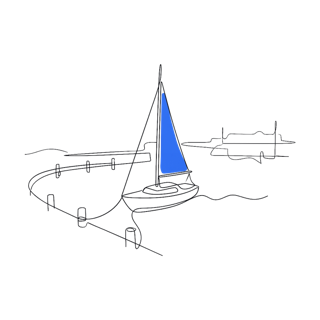
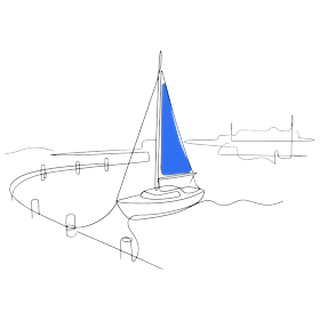
De l'air, un dessin par écran, un seul « ••• »
LES ÉTATS VIDES PERDENT LEUR DESSIN. Ils en portaient un — carnet
quand le questionnaire manquait, port quand c'était le portefeuille.
Depuis que chaque vue s'ouvre sur le sien, cet état arrive juste
dessous : on voyait la balance de l'allocation, puis un carnet, sur
le même écran. Le second ne disait rien que « Une étape manque » ne
dise déjà. C'est aussi le carnet de trop sur le rapport, sur le
profil de risque et sur l'allocation cible.

DE L'AIR ENTRE LES BLOCS. Les cartes se touchaient à seize pixels,
héritées d'une mise en page où l'écran devait tout montrer d'un
coup. Depuis que le contenu paraît au défilement, l'écran n'a plus à
tout tenir : 34 px sur téléphone, 56 px sur écran large entre les
blocs de premier niveau, les grilles desserrent de 16 à 24 et 32, et
les cartes gagnent huit pixels de rembourrage sur écran large. La
règle ne porte que sur les enfants DIRECTS d'une vue — une carte
reste dense à l'intérieur, c'est entre les cartes que l'air manquait.

UN SEUL « ••• » PAR LARGEUR. Celui de la barre basse restait visible
sur téléphone à côté de celui de l'en-tête : la règle qui le masque
était posée AVANT `.tabbar button`, qui pose `display: flex`, et une
media query n'ajoute aucune spécificité. Même piège que
`.filtres .champ` il y a deux jours.

LES QUATRE ACTIONS DE DOSSIER QUITTENT L'EN-TÊTE. Enregistrer,
exporter, importer, nouveau dossier vivent derrière le « ••• », qui
les portait déjà sur téléphone. Les boutons restent dans la page,
[…]

Changed region(s): [[0.0312, 0.1562, 0.9688, 0.8125], [0.1562, 0.625, 0.3438, 0.75], [0.4375, 0.7812, 0.5, 0.8438]]

diff --git a/css/app.css b/css/app.css
@@ -131,7 +131,12 @@ a:hover { text-decoration: underline; }
   font-size: 12px; color: var(--texte-doux);
   padding-left: 4px; border-left: 1px solid var(--ligne); margin-left: 2px;
 }
-.entete .actions-entete { display: flex; gap: 8px; flex-shrink: 0; }
+/* Les quatre actions — enregistrer, exporter, importer, nouveau dossier —
+   ne s'alignent plus dans l'en-tête. Elles vivent derrière le « ••• », qui
+   les portait déjà sur téléphone : les avoir aux deux endroits laissait
+   croire à deux choses différentes. Les boutons restent dans la page, la
+   feuille les relaie par leur identifiant. */
+.entete .actions-entete { display: none; }
 
 /* En colonne à toutes les largeurs. C'était une RANGÉE — la colonne de
    navigation à gauche, le contenu à droite. La colonne ayant disparu, une
@@ -887,7 +892,11 @@ input[type=range] { width: 100%; accent-color: var(--bleu); }
 
 .tabbar { display: none; }
 .sous-nav { display: none; }
-.tabbar-filet, .tabbar-plus { display: none; }
+/* Le « ••• » de la barre basse ne sert que sur écran large : sur téléphone
+   l'en-tête porte déjà le sien, et deux portes identiques à trente
+   centimètres l'une de l'autre ne sont pas deux chemins, c'est une hésitation.
+   La règle vit APRÈS `.tabbar button`, qui pose `display: flex` : posée avant,
+   elle était muette — une media query n'ajoute aucune spécificité. */
 
 @media all {
 
@@ -996,6 +1005,9 @@ input[type=range] { width: 100%; accent-color: var(--bleu); }
     letter-spacing: .1em; font-size: 15px; font-weight: 800; color: var(--texte-doux);
   }
   .tabbar-plus:hover { color: var(--texte); }
+}
+@media (max-width: 820px) {
+  .tabbar-filet, .tabbar-plus { display: none !important; }
   .contenu { padding-bottom: 136px; }
   .pied { padding-bottom: 128px; }
 }
@@ -2171,6 +2183,50 @@ h2 .illustration {
   .ouverture > .illustration { width: 132px !important; height: 132px !important; }
 }
 
+/* ---------- (d bis bis) DE L'AIR ENTRE LES BLOCS ----------
+   Les cartes se touchaient à seize pixels, héritées d'une mise en page où
+   l'écran devait tout montrer d'un coup. Depuis que chaque vue s'ouvre en
+   pleine page et que le contenu paraît au défilement, l'écran n'a plus à
+   tout tenir : il peut respirer, et un bloc qui commence doit se voir
+   commencer.
+
+   La règle porte sur les enfants DIRECTS d'une vue et de son conteneur de
+   contenu — les blocs de premier niveau, pas ce qu'ils contiennent. Une
+   carte reste dense à l'intérieur ; c'est entre les cartes que l'air
+   manque. */
+.vue > .carte, .vue > .grille, .vue > .message, .vue > .verdict,
+.vue > .tableau-defilant, .vue > .etat-vide, .vue > .bandeau-profil,
+.vue > div[id$="-contenu"] > .carte,
+.vue > div[id$="-contenu"] > .grille,
+.vue > div[id$="-contenu"] > .message,
+.vue > div[id$="-contenu"] > .verdict,
+.vue > div[id$="-contenu"] > .tableau-defilant,
+.vue > div[id$="-contenu"] > .etat-vide,
+.vue > div[id$="-contenu"] > .bandeau-profil {
+  margin-bottom: 34px;
+}
+.vue > div[id$="-contenu"] > *:last-child,
+.vue > *:last-child { margin-bottom: 0; }
+
+/* Et les grilles elles-mêmes desserrent. */
+.grille { gap: 24px; }
+
+@media (min-width: 821px) {
+  .vue > .carte, .vue > .grille, .vue > .message, .vue > .verdict,
+  .vue > .tableau-defilant, .vue > .etat-vide, .vue > .bandeau-profil,
+  .vue > div[id$="-contenu"] > .carte,
+  .vue > div[id$="-contenu"] > .grille,
+  .vue > div[id$="-contenu"] > .message,
+  .vue > div[id$="-contenu"] > .verdict,
+  .vue > div[id$="-contenu"] > .tableau-defilant,
+  .vue > div[id$="-contenu"] > .etat-vide,
+  .vue > div[id$="-contenu"] > .bandeau-profil {
+    margin-bottom: 56px;
+  }
+  .grille { gap: 32px; }
+  .carte { padding: 30px 32px; }
+}
+
 /* ---------- (d ter) LES INDICATEURS EN ZIGZAG ----------
    Quatre tuiles en rang serré se lisent comme un tableau de bord
    d'avion : on les balaie sans en retenir une. Une par ligne,
@@ -2207,7 +2263,7 @@ h2 .illustration {
   padding: 24px 0 calc(var(--marge-barre) + 52px);
   position: relative;
 }
-.entree-ouverture > .illustration { width: 168px !important; height: 168px !important; }
+.entree-ouverture > .illustration { width: 160px !important; height: 160px !important; }
 .entree-nom {
   font-family: var(--police);
   font-size: 46px; font-weight: 800; letter-spacing: -.035em; line-height: 1;
@@ -2243,7 +2299,7 @@ h2 .illustration {
 .entree-choisir > div:first-child { display: contents; }
 
 @media (min-width: 821px) {
-  .entree-ouverture > .illustration { width: 208px !important; height: 208px !important; }
+  .entree-ouverture > .illustration { width: 210px !important; height: 210px !important; }
   .entree-nom { font-size: 64px; letter-spacing: -.04em; }
   .entree-propos { max-width: 900px; }
   .entree-propos .accroche p { font-size: 24px; }
@@ -2296,7 +2352,7 @@ h2 .illustration {
 .ouverture-vue .intro { max-width: 46ch; margin: 0; }
 /* La taille vient de la feuille et non de `illustration()`, qui la pose
    en style d'attribut : sans `!important` le style en ligne l'emporte. */
-.ouverture-vue > .illustration { width: 168px !important; height: 168px !important; }
+.ouverture-vue > .illustration { width: 210px !important; height: 210px !important; }
 
 /* L'invitation à descendre, en pied d'écran. */
 .ouverture-suite {
@@ -2314,7 +2370,7 @@ h2 .illustration {
 
 @media (max-width: 820px) {
   .ouverture-vue { gap: 20px; padding-bottom: 84px; }
-  .ouverture-vue > .illustration { width: 132px !important; height: 132px !important; }
+  .ouverture-vue > .illustration { width: 160px !important; height: 160px !important; }
 }
 
 /* ---------- (f) LE CONTENU PARAÎT AU DÉFILEMENT ----------

diff --git a/index.html b/index.html
@@ -15,8 +15,8 @@
 <link rel="icon" type="image/png" sizes="192x192" href="icone-192.png">
 <link rel="manifest" href="manifest.webmanifest">
 <title>Allocation ETF — Profilage, allocation et arbitrages</title>
-<link rel="stylesheet" href="css/tokens.css?v=202608193040">
-<link rel="stylesheet" href="css/app.css?v=202608193040">
+<link rel="stylesheet" href="css/tokens.css?v=202608193060">
+<link rel="stylesheet" href="css/app.css?v=202608193060">
 </head>
 <body>
 
@@ -36,7 +36,7 @@
   <div class="marque">
     <!-- Le nom est porté par le lettrage ; le signe est décoratif ici,
          il n'a donc pas à être annoncé une seconde fois. -->
-    <img class="logo" src="img/logo.png?v=202608193040" alt="" aria-hidden="true" width="28" height="28">
+    <img class="logo" src="img/logo.png?v=202608193060" alt="" aria-hidden="true" width="28" height="28">
     <strong>myetf</strong>
     <span>Profilage investisseur · Allocation d'actifs · Arbitrages tactiques</span>
   </div>
@@ -483,34 +483,34 @@
   en investissement.</span>
 </footer>
 
-<script src="js/data/libelles.js?v=202608193040"></script>
-<script src="js/data/questionnaire.js?v=202608193040"></script>
-<script src="js/data/allocations.js?v=202608193040"></script>
-<script src="js/data/macro.js?v=202608193040"></script>
-<script src="js/data/etf-univers.js?v=202608193040"></script>
-<script src="js/data/fiscalite.js?v=202608193040"></script>
-<script src="js/data/historique.js?v=202608193040"></script>
-<script src="js/data/note-marche.js?v=202608193040"></script>
-<script src="js/data/cours-historique.js?v=202608193040"></script>
-<script src="js/data/cours-marche.js?v=202608193040"></script>
-<script src="js/engine/profil.js?v=202608193040"></script>
-<script src="js/engine/allocation.js?v=202608193040"></script>
-<script src="js/engine/selection.js?v=202608193040"></script>
-<script src="js/engine/arbitrage.js?v=202608193040"></script>
-<script src="js/engine/revenus.js?v=202608193040"></script>
-<script src="js/engine/situation.js?v=202608193040"></script>
-<script src="js/engine/contrat.js?v=202608193040"></script>
-<script src="js/engine/univers.js?v=202608193040"></script>
-<script src="js/engine/backtest.js?v=202608193040"></script>
-<script src="js/ui/socle.js?v=202608193040"></script>
-<script src="js/ui/dossier.js?v=202608193040"></script>
-<script src="js/ui/navigation.js?v=202608193040"></script>
-<script src="js/ui/vues-profil.js?v=202608193040"></script>
-<script src="js/ui/vues-allocation.js?v=202608193040"></script>
-<script src="js/ui/vues-suivi.js?v=202608193040"></script>
-<script src="js/ui/catalogue.js?v=202608193040"></script>
-<script src="js/ui/rapport.js?v=202608193040"></script>
-<script src="js/ui/entrees.js?v=202608193040"></script>
-<script src="js/app.js?v=202608193040"></script>
+<script src="js/data/libelles.js?v=202608193060"></script>
+<script src="js/data/questionnaire.js?v=202608193060"></script>
+<script src="js/data/allocations.js?v=202608193060"></script>
+<script src="js/data/macro.js?v=202608193060"></script>
+<script src="js/data/etf-univers.js?v=202608193060"></script>
+<script src="js/data/fiscalite.js?v=202608193060"></script>
+<script src="js/data/historique.js?v=202608193060"></script>
+<script src="js/data/note-marche.js?v=202608193060"></script>
+<script src="js/data/cours-historique.js?v=202608193060"></script>
+<script src="js/data/cours-marche.js?v=202608193060"></script>
+<script src="js/engine/profil.js?v=202608193060"></script>
+<script src="js/engine/allocation.js?v=202608193060"></script>
+<script src="js/engine/selection.js?v=202608193060"></script>
+<script src="js/engine/arbitrage.js?v=202608193060"></script>
+<script src="js/engine/revenus.js?v=202608193060"></script>
+<script src="js/engine/situation.js?v=202608193060"></script>
+<script src="js/engine/contrat.js?v=202608193060"></script>
+<script src="js/engine/univers.js?v=202608193060"></script>
+<script src="js/engine/backtest.js?v=202608193060"></script>
+<script src="js/ui/socle.js?v=202608193060"></script>
+<script src="js/ui/dossier.js?v=202608193060"></script>
+<script src="js/ui/navigation.js?v=202608193060"></script>
+<script src="js/ui/vues-profil.js?v=202608193060"></script>
+<script src="js/ui/vues-allocation.js?v=202608193060"></script>
+<script src="js/ui/vues-suivi.js?v=202608193060"></script>
+<script src="js/ui/catalogue.js?v=202608193060"></script>
+<script src="js/ui/rapport.js?v=202608193060"></script>
+<script src="js/ui/entrees.js?v=202608193060"></script>
+<script src="js/app.js?v=202608193060"></script>
 </body>
 </html>

diff --git a/js/ui/dossier.js b/js/ui/dossier.js
@@ -335,14 +335,13 @@ function etatVide(vue) {
   const manques = manquePour(vue);
   if (!manques.length) return '';
 
-  /* Le dessin dit ce qui manque avant qu'on ait lu : un carnet quand c'est
-     le questionnaire, un port quand c'est le portefeuille. Le premier
-     manque commande — deux dessins pour deux manques se disputeraient. */
-  const DESSIN_MANQUE = { questionnaire: 'carnet', detention: 'port', macro: 'boussole' };
-  const dessin = DESSIN_MANQUE[manques[0]]
-    ? '<div class="etat-vide-dessin">' + illustration(DESSIN_MANQUE[manques[0]], TAILLE_ILLUSTRATION_BANNIERE) + '</div>' : '';
-
-  return '<div class="etat-vide">' + dessin +
+  /* PAS DE DESSIN ICI. L'état vide en portait un — un carnet quand le
+     questionnaire manquait, un port quand c'était le portefeuille. Depuis
+     que chaque vue s'ouvre sur le sien, cet état arrive juste dessous : on
+     voyait la balance de l'allocation, puis un carnet, sur le même écran.
+     Deux dessins pour une vue, et le second ne disait rien que le titre
+     « Une étape manque » ne dise déjà. */
+  return '<div class="etat-vide">' +
     '<h3>' + (manques.length > 1
       ? 'Deux étapes manquent avant de pouvoir afficher cette section'
       : 'Une étape manque avant de pouvoir afficher cette section') + '</h3>' +

diff --git a/js/ui/socle.js b/js/ui/socle.js
@@ -139,10 +139,15 @@ const TAILLE_ILLUSTRATION_TITRE = 38;
 const TAILLE_ILLUSTRATION_BANNIERE = 180;
 /* En ouverture de vue : plus grand que dans un titre, plus petit qu'une
    bannière d'accueil — c'est le sujet du premier écran, pas sa décoration.
-   Il rapetisse à 132 px sur téléphone, où 168 px mangeraient la moitié de
-   ce qu'on voit en arrivant (feuille de style, pas ici : le style en ligne
-   posé par `illustration()` est surchargé en `!important`). */
-const TAILLE_ILLUSTRATION_OUVERTURE = 168;
+   Il rapetisse à 160 px sur téléphone (feuille de style, pas ici : le style
+   en ligne posé par `illustration()` y est surchargé en `!important`).
+
+   Le port a été recadré au passage : c'est un dessin EN LARGEUR, et centré
+   dans un carré il ne remplissait que 85 % de sa boîte quand la balance ou
+   le journal en occupent 91 %. À taille de boîte égale il paraissait plus
+   petit — ce n'était pas la boîte qu'il fallait changer, c'était le
+   cadrage du fichier. */
+const TAILLE_ILLUSTRATION_OUVERTURE = 210;
 
 function illustration(nom, taille) {
   return '<img class="illustration" src="img/' + nom + '.png" alt="" aria-hidden="true" ' +

diff --git a/CLAUDE.md b/CLAUDE.md
@@ -293,6 +293,33 @@ la colonne les portait. La colonne partie, un « ••• » est ajouté à la 
 basse — masqué sur téléphone, où l'en-tête fait déjà le travail. Il ouvre la
 même feuille : une seule feuille, deux portes, jamais deux contenus à tenir.
 
+## Un seul dessin par écran, et un seul « ••• » par largeur
+
+**Les états vides n'ont plus de dessin.** Ils en portaient un — un carnet
+quand le questionnaire manquait, un port quand c'était le portefeuille.
+Depuis que chaque vue s'ouvre sur le sien, cet état arrive juste dessous : on
+voyait la balance de l'allocation, puis un carnet, sur le même écran. Le
+second ne disait rien que le titre « Une étape manque » ne dise déjà.
+
+**Le « ••• » ne paraît qu'une fois.** Sur téléphone c'est celui de l'en-tête,
+sur écran large celui de la barre basse. La règle qui masque celui de la barre
+vit APRÈS `.tabbar button`, qui pose `display: flex` : placée avant, elle était
+muette — une media query n'ajoute aucune spécificité, c'est l'ordre du fichier
+qui tranche. Le piège s'est déjà refermé une fois, sur `.filtres .champ`.
+
+**Les quatre actions de dossier ont quitté l'en-tête.** Enregistrer, exporter,
+importer, nouveau dossier vivent derrière le « ••• », qui les portait déjà sur
+téléphone. Les avoir aux deux endroits laissait croire à deux choses
+différentes. Les boutons restent dans la page, masqués : la feuille les relaie
+par leur identifiant, et les retirer casserait ce relais.
+
+**Un dessin en largeur pèse moins qu'un dessin carré.** Le port occupait 85 %
+de sa boîte quand la balance ou le journal en occupent 91 % : à taille égale il
+paraissait plus petit. Ce n'était pas la boîte qu'il fallait changer, c'était
+le cadrage du fichier — recadré au plus près, il en occupe 98 %. Le réflexe
+d'ajouter une taille par vue aurait rendu la règle « une seule taille » fausse
+pour toujours.
+
 ## L'écran d'ouverture — trois secondes
 
 Le signe seul sur le fond de page, puis il s'efface en fondu. **Trois
@@ -323,16 +350,16 @@ conseil » est **encadré de noir et plus gros que les mentions** (13,5 px contr
 
 ## L'empreinte de référence
 
-**`54fbfd24` · 1 321 221 octets · 68 empreintes**, relevée après le chantier
-des ouvertures. Les +17 392 octets sur l'empreinte précédente (`8826d079`,
-1 303 829) sont le balisage des seize ouvertures de vue — dessin, titre,
-sous-titre, invitation à descendre — et le « ••• » de la barre basse.
+**`fe9a6d86` · 1 318 021 octets · 68 empreintes**, relevée après le passage
+d'aération. Les −3 200 octets sur `54fbfd24` sont les dessins retirés des
+états vides.
 
 Repère utile comme étalon : `3491397b`, **1 303 613 octets**. L'agrandissement
 des dessins avait alors changé l'empreinte **sans changer d'un octet** le
 total, puisqu'il ne substituait que des chiffres. Un total inchangé et une
 empreinte différente : la signature d'une substitution pure. Un total qui bouge
-veut dire que du balisage est apparu, et il faut alors savoir lequel.
+veut dire que du balisage est apparu ou a disparu, et il faut alors savoir
+lequel.
 
 ## La liste de contrôle avant impression ne bloque rien
 
